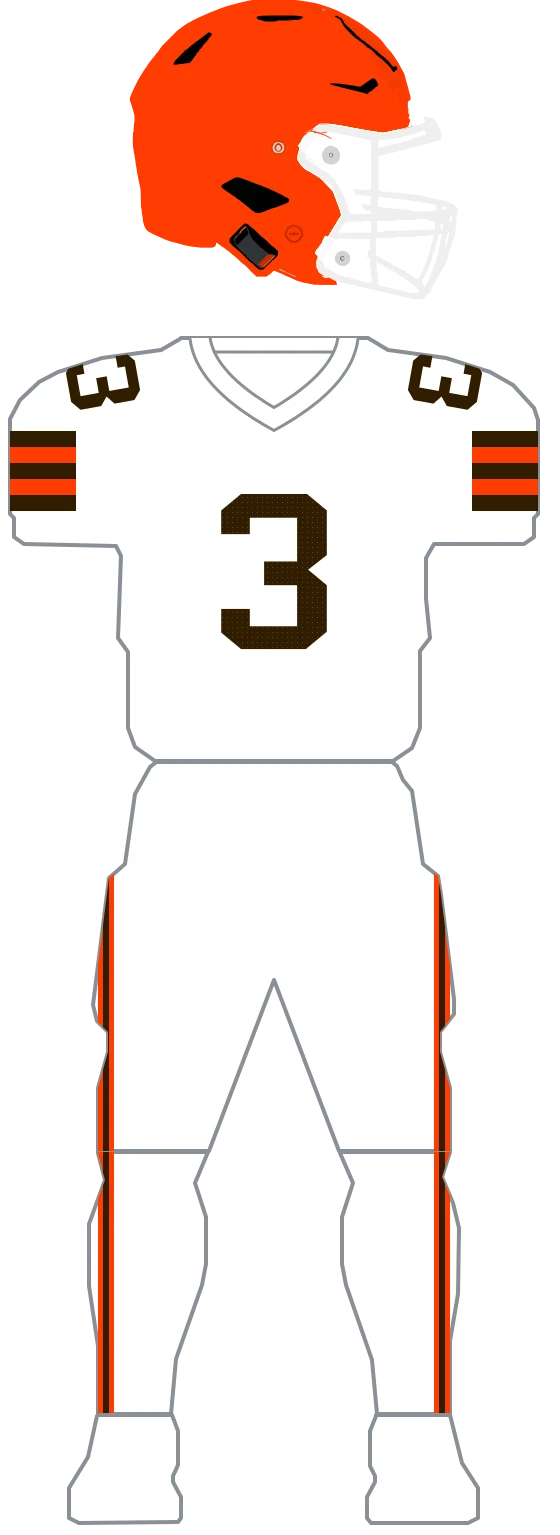
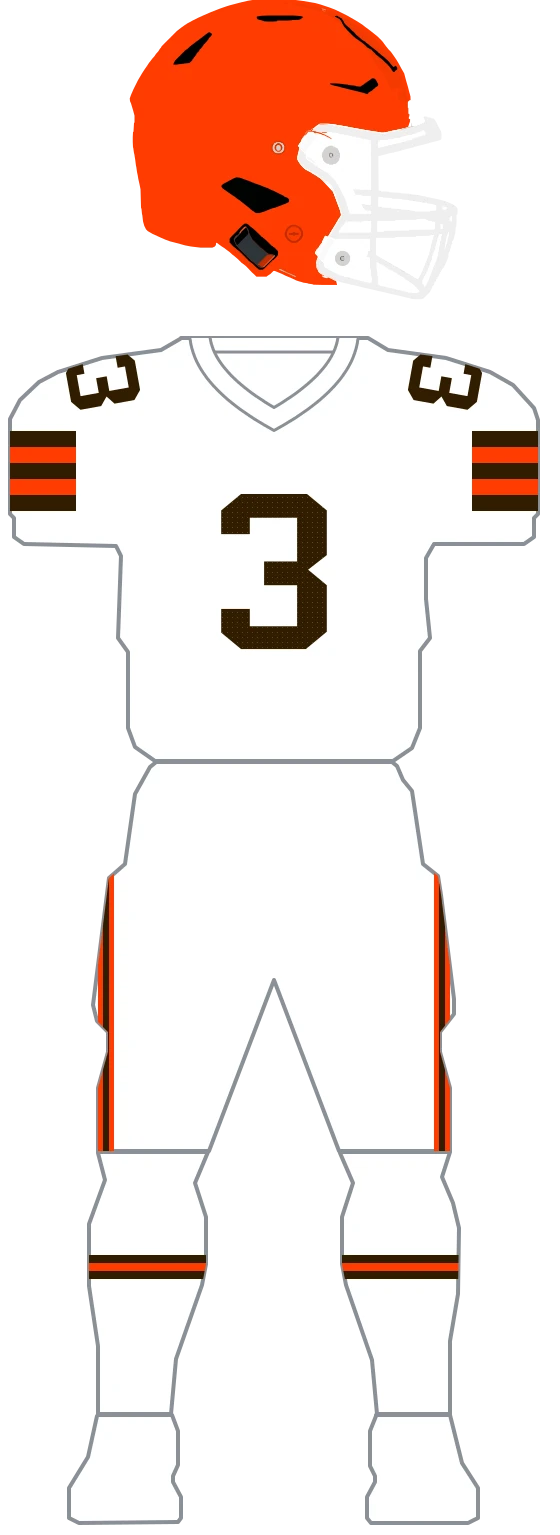
fix(uniforms): separate Browns pants and socks

Changed region(s): [[0.6071, 0.7349, 0.8196, 0.9186], [0.1518, 0.7349, 0.3643, 0.9186]]

diff --git a/web/lib/uniforms/teams/browns/parts.ts b/web/lib/uniforms/teams/browns/parts.ts
@@ -9,6 +9,7 @@
 // the 1946 throwback keeps its existing white pants outside that current-uniform option set.
 
 import { expandHelmet } from '../core/helmet-spec';
+import { expandSocks } from '../core/pants-spec';
 import { type PartLayer, type UniformPart } from '../core/parts';
 
 // The 2025 composite's white and orange pants both carry the same orange-brown-orange stripe.
@@ -19,7 +20,7 @@ function pantsStripes(): PartLayer[] {
     {
       id: 'generic-pants-stripe-left',
       surface: 'leg-left',
-      d: 'M118,807 H134 V1462 H118 Z',
+      d: 'M118,807 H134 V1196 H118 Z',
       clip: true,
       kind: 'fill',
       fill: 'orange',
@@ -27,7 +28,7 @@ function pantsStripes(): PartLayer[] {
     {
       id: 'generic-pants-stripe-right',
       surface: 'leg-right',
-      d: 'M454,807 H470 V1462 H454 Z',
+      d: 'M454,807 H470 V1196 H454 Z',
       clip: true,
       kind: 'fill',
       fill: 'orange',
@@ -35,7 +36,7 @@ function pantsStripes(): PartLayer[] {
     {
       id: 'browns-pants-stripe-center-left',
       surface: 'leg-left',
-      d: 'M123,807 H129 V1462 H123 Z',
+      d: 'M123,807 H129 V1196 H123 Z',
       clip: true,
       kind: 'fill',
       fill: 'brown',
@@ -43,7 +44,7 @@ function pantsStripes(): PartLayer[] {
     {
       id: 'browns-pants-stripe-center-right',
       surface: 'leg-right',
-      d: 'M459,807 H465 V1462 H459 Z',
+      d: 'M459,807 H465 V1196 H459 Z',
       clip: true,
       kind: 'fill',
       fill: 'brown',
@@ -86,6 +87,32 @@ const PANTS_BROWN: UniformPart = { base: 'brown', layers: [] };
 // unstriped white pant construction rather than importing an option from a different uniform era.
 const PANTS_1946_WHITE: UniformPart = { base: 'white', layers: [] };
 
+const SOCKS_BROWN = expandSocks('browns-brown-socks', {
+  color: 'brown',
+  stripes: {
+    bands: [
+      { color: 'white', size: 's' },
+      { color: 'orange', size: 's' },
+      { color: 'white', size: 's' },
+    ],
+    gap: 'none',
+  },
+});
+
+const SOCKS_WHITE = expandSocks('browns-white-socks', {
+  color: 'white',
+  stripes: {
+    bands: [
+      { color: 'brown', size: 's' },
+      { color: 'orange', size: 's' },
+      { color: 'brown', size: 's' },
+    ],
+    gap: 'none',
+  },
+});
+
+const SOCKS_1946_WHITE = expandSocks('browns-1946-white-socks', { color: 'white' });
+
 export const BROWNS_CONSTRUCTION = {
   teamId: 'browns',
   // Jersey hexes from the curated rows. Brown and orange are the two physical
@@ -103,9 +130,20 @@ export const BROWNS_CONSTRUCTION = {
     brown: PANTS_BROWN,
     '1946-white': PANTS_1946_WHITE,
   },
+  socks: { brown: SOCKS_BROWN, white: SOCKS_WHITE, '1946-white': SOCKS_1946_WHITE },
   kits: {
-    home: { helmet: 'orange', jersey: 'brown', pants: ['white', 'orange', 'brown'] },
-    away: { helmet: 'orange', jersey: 'white', pants: ['white', 'orange'] },
-    '1946-throwback': { helmet: 'brown', jersey: 'white', pants: '1946-white' },
+    home: {
+      helmet: 'orange',
+      jersey: 'brown',
+      pants: ['white', 'orange', 'brown'],
+      socks: 'brown',
+    },
+    away: { helmet: 'orange', jersey: 'white', pants: ['white', 'orange'], socks: 'white' },
+    '1946-throwback': {
+      helmet: 'brown',
+      jersey: 'white',
+      pants: '1946-white',
+      socks: '1946-white',
+    },
   },
 };

diff --git a/web/lib/uniforms/teams/browns/parts.test.ts b/web/lib/uniforms/teams/browns/parts.test.ts
@@ -1,0 +1,14 @@
+import { describe, expect, it } from 'vitest';
+import { BROWNS_UNIFORMS_FROM_PARTS } from './index';
+
+describe('Browns pants and socks', () => {
+  it('keeps the pants stripe above the hem and gives the home kit striped brown socks', () => {
+    const home = BROWNS_UNIFORMS_FROM_PARTS.kits.home;
+
+    expect(home.socksColor).toBe('#311D00');
+    expect(home.layers?.filter((layer) => layer.surface.startsWith('leg-'))).not.toEqual(
+      expect.arrayContaining([expect.objectContaining({ d: expect.stringContaining('V1462') })])
+    );
+    expect(home.layers?.filter((layer) => layer.surface.startsWith('sock-'))).toHaveLength(6);
+  });
+});
